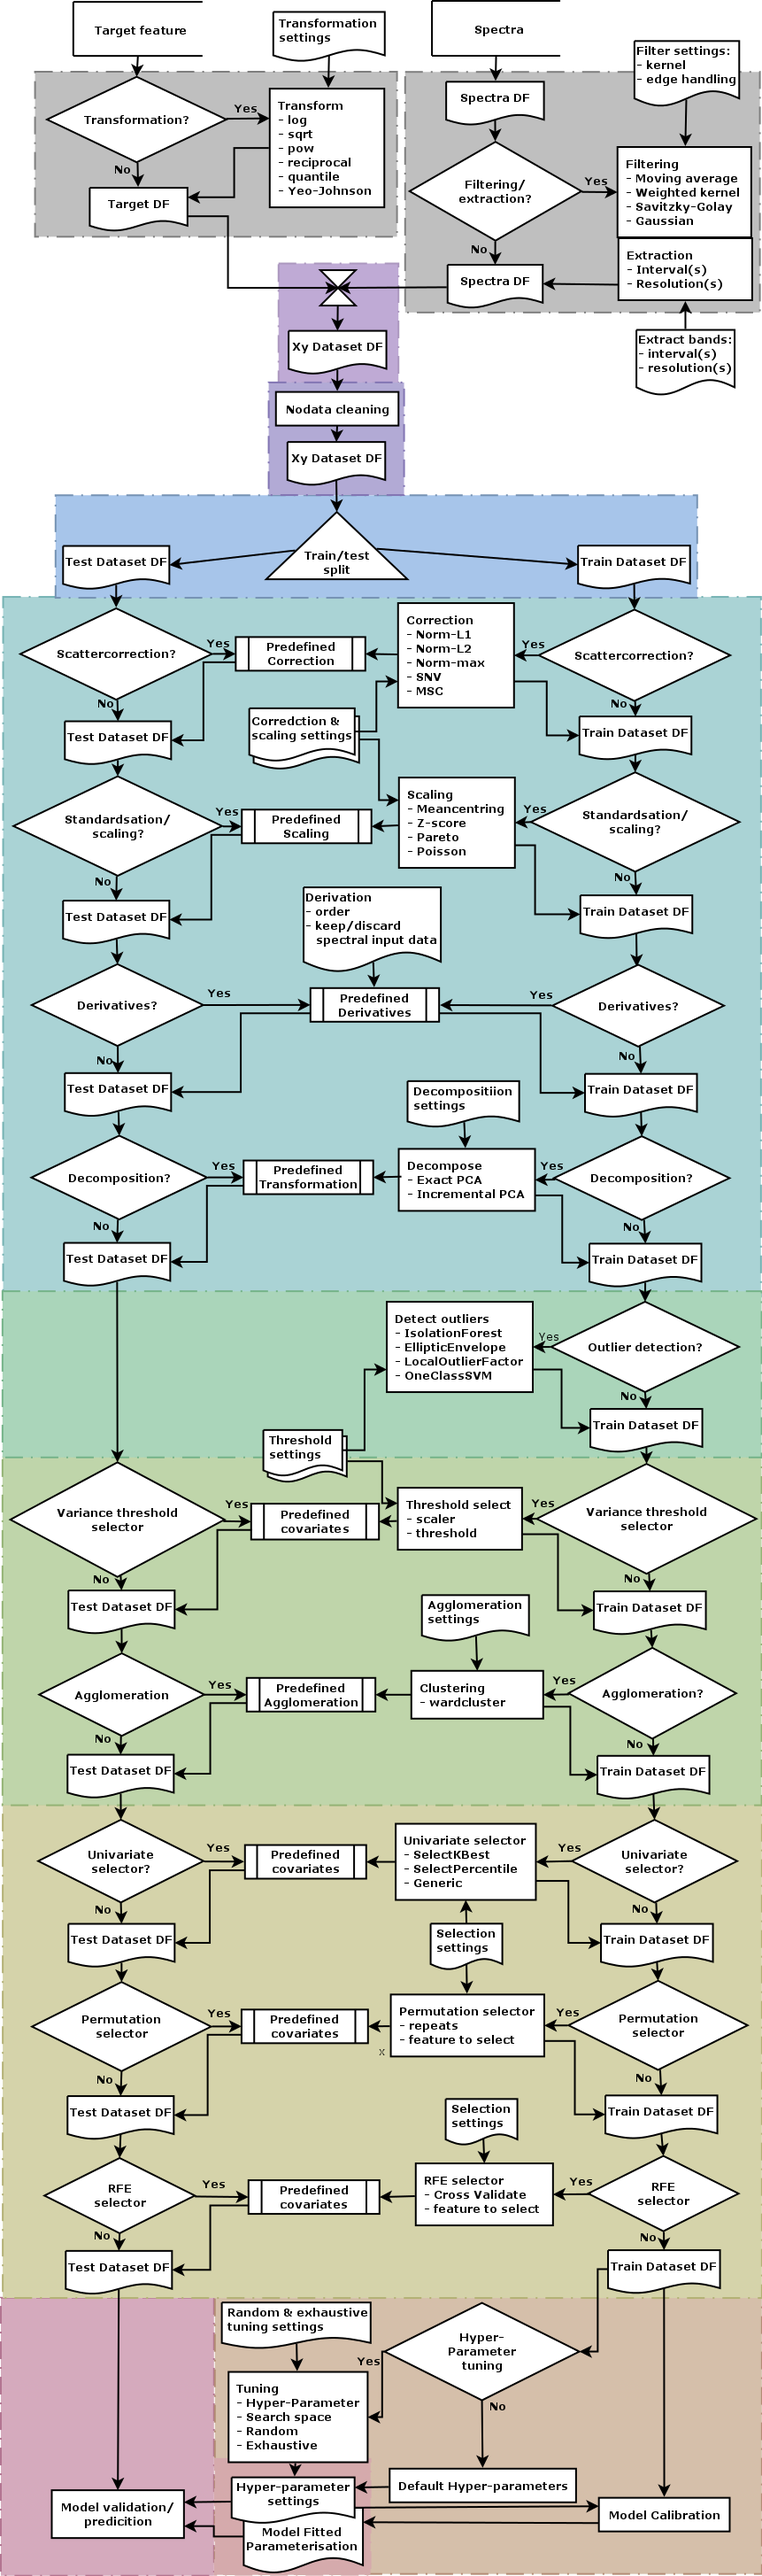
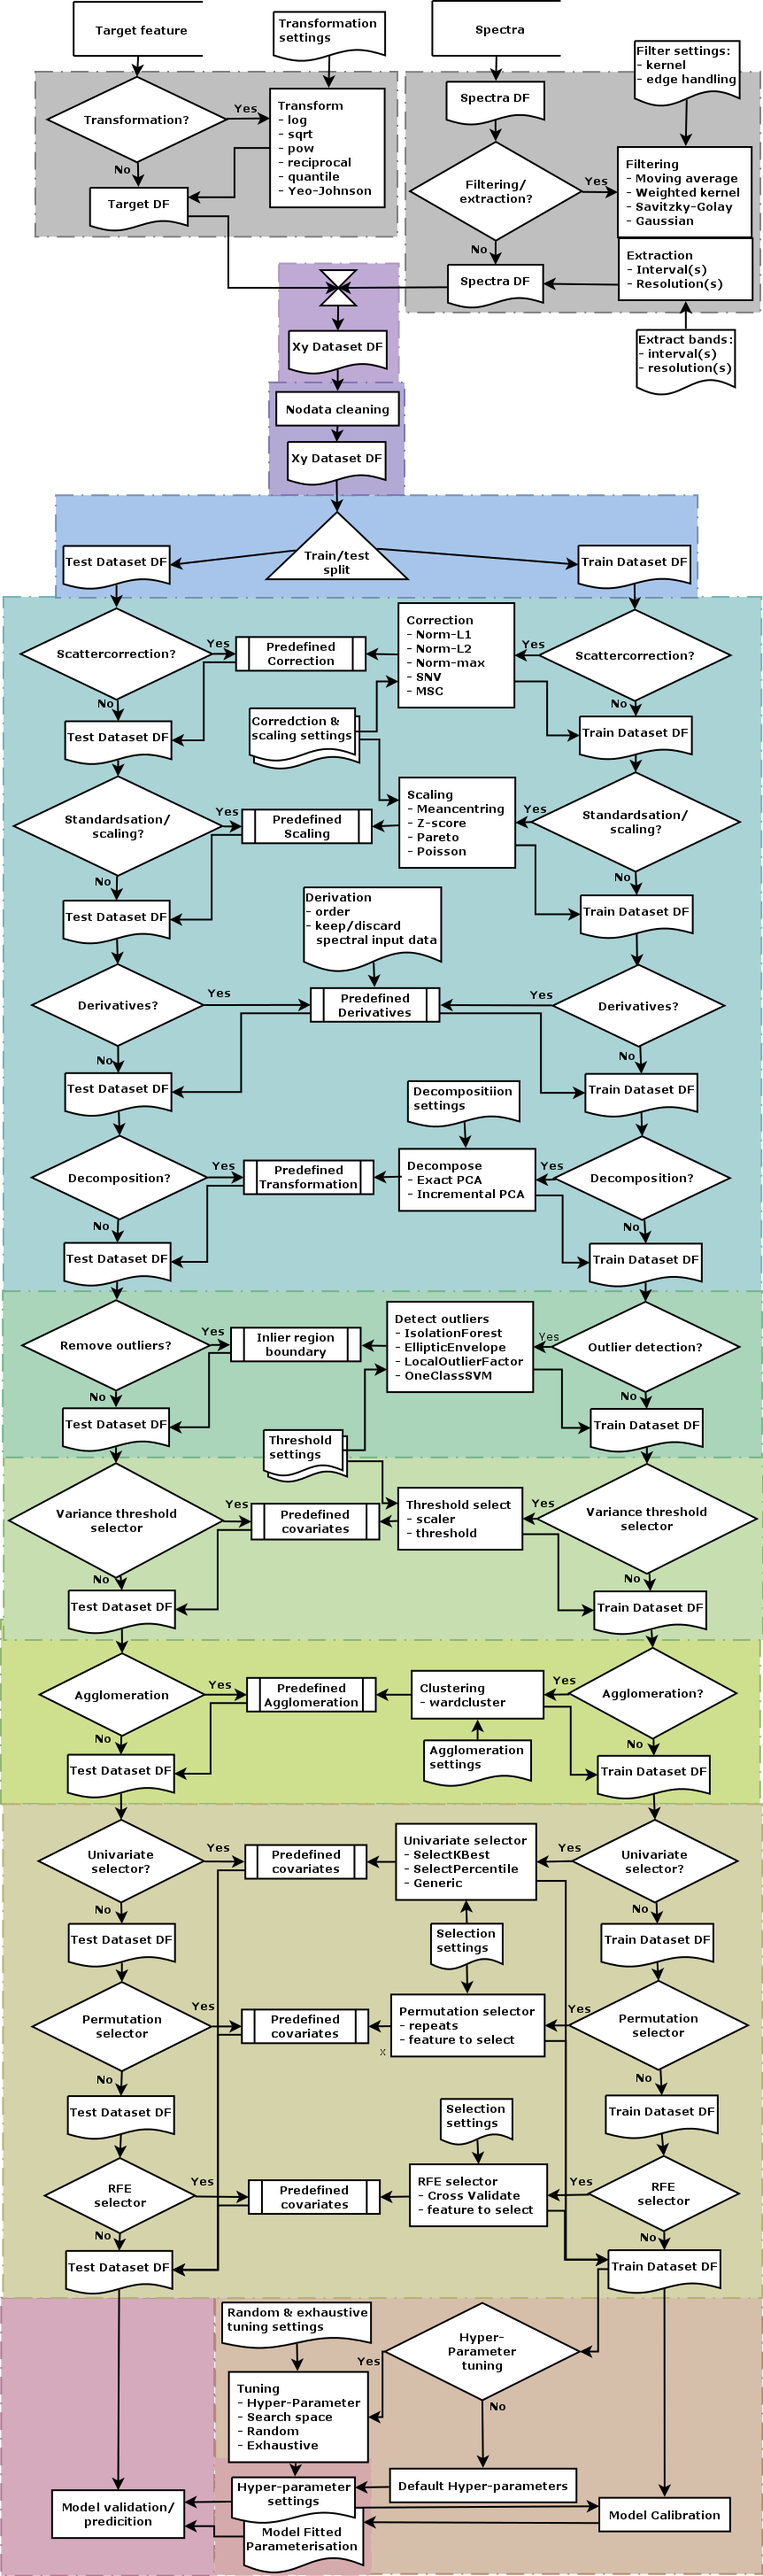
subfolder indexes

diff --git a/spectromodel/index.md b/spectromodel/index.md
@@ -1,9 +1,11 @@
 ---
 layout: page
-title: Chemometric soil modeling using soil spectral data
+title: "Chemometric soil modeling using soil spectral data"
 excerpt: "Description and illustation of a python process flow for going from raw soil spectral data to a chemometric soil propertries model using Machine Learning."
 search_omit: true
 ---
+
+The Framework is built in Python using the Eclipse Integrated Development Environment (IDE) and postreSQL as database. The setup of the IDE with all its components is covered in the [Setup IDE Blog](https://karttur.github.io/setup-ide/). If you want to setup Karttur's GeoImagine Framework you have to start with building the Eclipse Spatial Data IDE (SPIDE).
 
 ## Chemometric modelling with spectral data
 

diff --git a/libspectrosupport/index.md b/libspectrosupport/index.md
@@ -2,9 +2,10 @@
 layout: page
 title: Blog
 excerpt: "An archive of blog posts sorted by date."
-image: std-trmm-3b43v7-precip_3B43_trmm_2001-2016_A
 search_omit: true
 ---
+
+The Framework is built in Python using the Eclipse Integrated Development Environment (IDE) and postreSQL as database. The setup of the IDE with all its components is covered in the [Setup IDE Blog](https://karttur.github.io/setup-ide/). If you want to setup Karttur's GeoImagine Framework you have to start with building the Eclipse Spatial Data IDE (SPIDE).
 
 <ul class="post-list">
 {% for post in site.categories.libspectrosupport %}

diff --git a/libspectrodata/index.md b/libspectrodata/index.md
@@ -1,6 +1,6 @@
 ---
 layout: page
-title: OSSL spectral library data processing
+title: "OSSL spectral library data processing"
 excerpt: "OSSL spectral library data processing using python."
 search_omit: true
 ---
